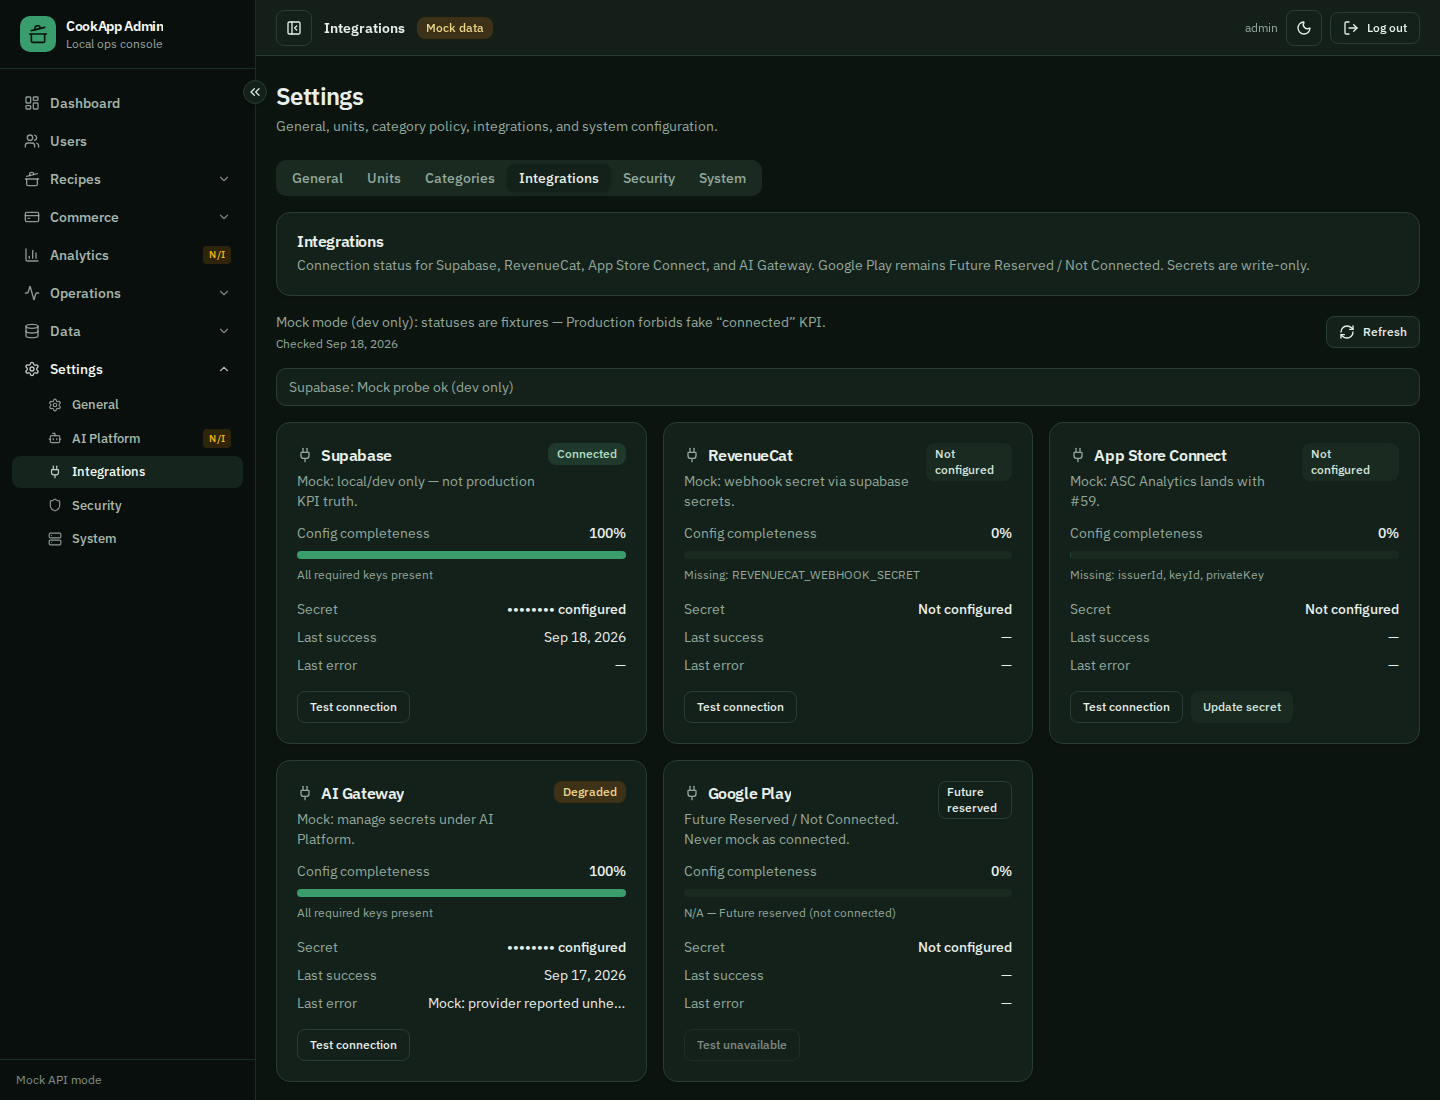
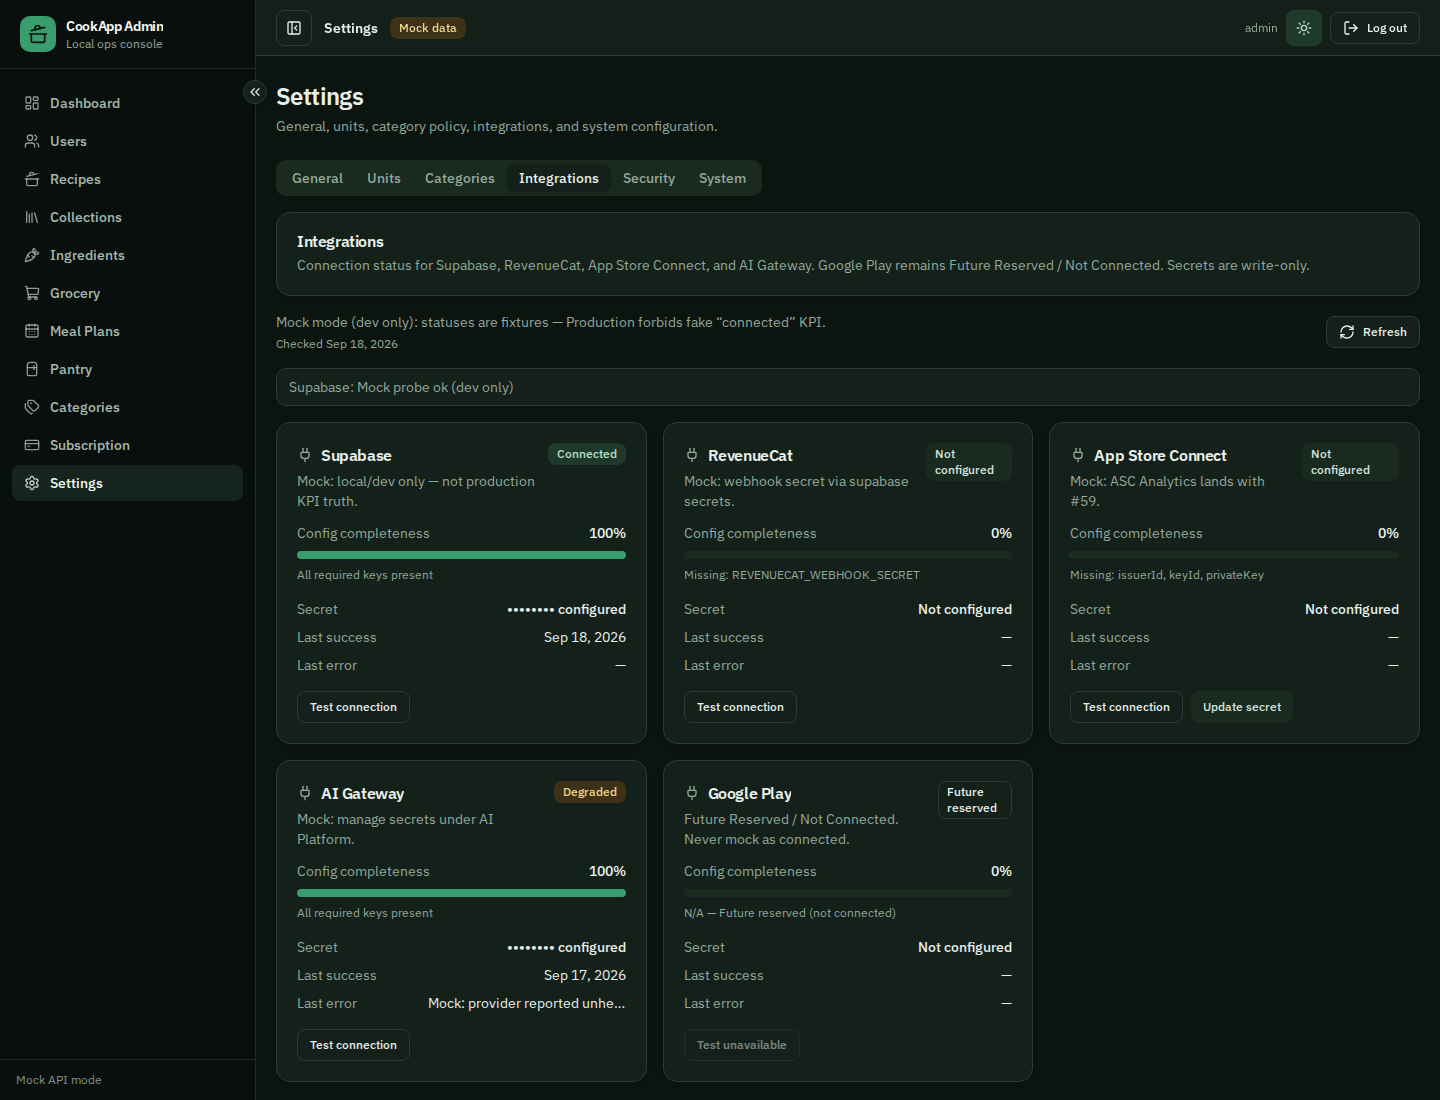
chore(qa): re-capture Integrations under flat Settings nav (#61)
Rebase evidence for #63 onto main after #64 Stage-4 IA rollback: desktop/mobile/dark/secret/Refresh-loading artifacts + page-text show flat sidebar + Settings tabs.

diff --git a/.cursor/walkthrough-artifacts/issue63-integrations/VERDICT.md b/.cursor/walkthrough-artifacts/issue63-integrations/VERDICT.md
@@ -1,31 +1,33 @@
 # Admin Design QA — Settings → Integrations (#63) — post-merge refresh fix
 
-Screen: **Settings → Integrations** (nav leaf under #64 Settings group)  
+Screen: **Settings → Integrations** (flat Admin nav after #61 / #81 rollback of #64 Stage-4 IA)  
 Code: `admin/src/pages/settings/integrations-panel.tsx`, `admin/src/pages/settings/settings-page.tsx`  
-Evidence (re-captured after Refresh fix):
+Evidence (re-captured after rebase onto `5755163` flat nav):
 - `integrations-desktop.png`
 - `integrations-mobile.png`
 - `integrations-desktop-dark.png`
 - `integrations-secret-dialog.png`
 - `integrations-after-test.png`
+- `integrations-refresh-loading.png`
 - `page-text.txt`
 
 Rules: Global Admin UI Standard · shared Admin kit/tokens · data authenticity (V2 §11)
 
 ```
 VERDICT: AWAITING INDEPENDENT RE-QA (implementer must not self-approve)
-Screenshot fidelity: N/A (no Pestle/mobile screenshot SoT for Admin). Desktop + mobile + dark + secret dialog re-captured under current #64 Settings → Integrations nav.
+Screenshot fidelity: N/A (no Pestle/mobile screenshot SoT for Admin). Desktop + mobile + dark + secret dialog + Refresh loading re-captured under **flat** Settings → Integrations (sidebar: Dashboard…Subscription + Settings; tabs: General/Units/Categories/Integrations/Security/System). No #64 Commerce/Analytics/Operations hierarchy.
 Liquid Glass: N/A (Admin web kit).
 Consistency (shared chrome/tokens): Reuses PageHeader/Tabs/Card/Badge/Button/Progress/Dialog; brand green tokens.
-Control states (fix under review): Refresh now wires `refreshing` from `useAsyncData` via `loading={refreshing}` + `disabled={refreshing}`. Test connection loading / secret dialog unchanged.
-Violations (prior FAIL addressed in code): Refresh lacked refreshing binding — fixed in this PR; requires independent QA confirm.
+Control states (fix under review): Refresh wires `refreshing` from `useAsyncData` via `loading={refreshing}` + `disabled={refreshing}` (see `integrations-refresh-loading.png`). Test connection / secret dialog unchanged.
+Violations (prior FAIL addressed): (1) missing #61 flat-nav on branch — rebased onto main `5755163`; (2) hierarchical artifacts — re-captured; (3) Refresh wiring preserved.
 Required redo: Independent UI QA agent must re-run and return PASS|FAIL.
 ```
 
 ## Fix delta
 
-- `useAsyncData` now destructures `refreshing`
+- `useAsyncData` destructures `refreshing`
 - Refresh `Button`: `loading={refreshing}` and `disabled={refreshing}`
+- Artifacts / `page-text.txt` show flat nav post-#61
 
 ## Build / Test
 
